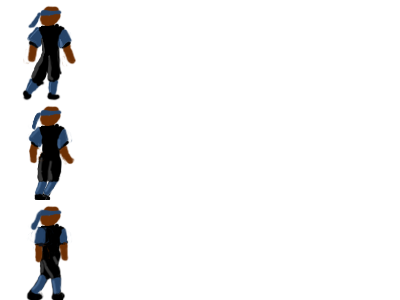
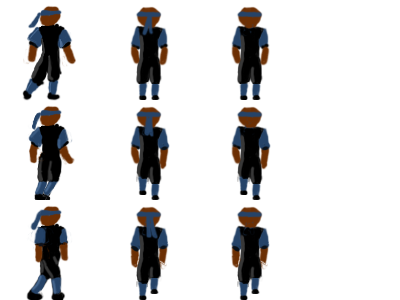
directional animations done

Changed region(s): [[0.57, 0.0, 0.69, 1.0], [0.3, 0.0, 0.45, 0.66], [0.3, 0.69, 0.42, 1.0]]

diff --git a/core/src/com/agmcleod/nwt/Player.java b/core/src/com/agmcleod/nwt/Player.java
@@ -17,8 +17,11 @@ public class Player extends GameEntity {
     private final int SPEED = 350;
     private TextureRegion currentFrame;
     private Animation walkRightAnimation;
+    private Animation walkUpAnimation;
+    private Animation walkDownAnimation;
+    private Animation currentAnimation;
     private float stateTime = 0f;
-    private boolean flip;
+    private boolean flipX;
 
     public Player() {
         super("player.png");
@@ -35,6 +38,22 @@ public class Player extends GameEntity {
         walkRightFrames[2] = tmp[2][0];
         walkRightFrames[3] = tmp[1][0];
         walkRightAnimation = new Animation(0.1f, walkRightFrames);
+
+        TextureRegion[] walkDownFrames = new TextureRegion[4];
+        walkDownFrames[0] = tmp[0][2];
+        walkDownFrames[1] = tmp[1][2];
+        walkDownFrames[2] = tmp[2][2];
+        walkDownFrames[3] = tmp[1][2];
+        walkDownAnimation = new Animation(0.1f, walkDownFrames);
+
+        TextureRegion[] walkUpFrames = new TextureRegion[4];
+        walkUpFrames[0] = tmp[0][1];
+        walkUpFrames[1] = tmp[1][1];
+        walkUpFrames[2] = tmp[2][1];
+        walkUpFrames[3] = tmp[1][1];
+        walkUpAnimation = new Animation(0.1f, walkUpFrames);
+
+        currentAnimation = walkRightAnimation;
     }
 
     public Vector2 getVelocity() {
@@ -50,7 +69,7 @@ public class Player extends GameEntity {
 
     @Override
     public void render(SpriteBatch batch) {
-        if (flip) {
+        if (flipX) {
             batch.draw(currentFrame, position.x, position.y, -width, height);
         }
         else {
@@ -59,15 +78,17 @@ public class Player extends GameEntity {
     }
 
     public void update(float d) {
-        currentFrame = walkRightAnimation.getKeyFrame(stateTime, true);
+        currentFrame = currentAnimation.getKeyFrame(stateTime, true);
         if (Gdx.input.isKeyPressed(Input.Keys.LEFT) || Gdx.input.isKeyPressed(Input.Keys.A)) {
-            flip = true;
+            flipX = true;
             velocity.x = - SPEED * d;
+            currentAnimation = walkRightAnimation;
         }
 
         else if (Gdx.input.isKeyPressed(Input.Keys.RIGHT) || Gdx.input.isKeyPressed(Input.Keys.D)) {
-            flip = false;
+            flipX = false;
             velocity.x = SPEED * d;
+            currentAnimation = walkRightAnimation;
         }
         else {
             velocity.x = 0;
@@ -75,9 +96,13 @@ public class Player extends GameEntity {
 
         if (Gdx.input.isKeyPressed(Input.Keys.UP) || Gdx.input.isKeyPressed(Input.Keys.W)) {
             velocity.y = SPEED * d;
+            flipX = false;
+            currentAnimation = walkUpAnimation;
         }
         else if (Gdx.input.isKeyPressed(Input.Keys.DOWN) || Gdx.input.isKeyPressed(Input.Keys.S)) {
             velocity.y = - SPEED * d;
+            flipX = false;
+            currentAnimation = walkDownAnimation;
         }
         else {
             velocity.y = 0;
